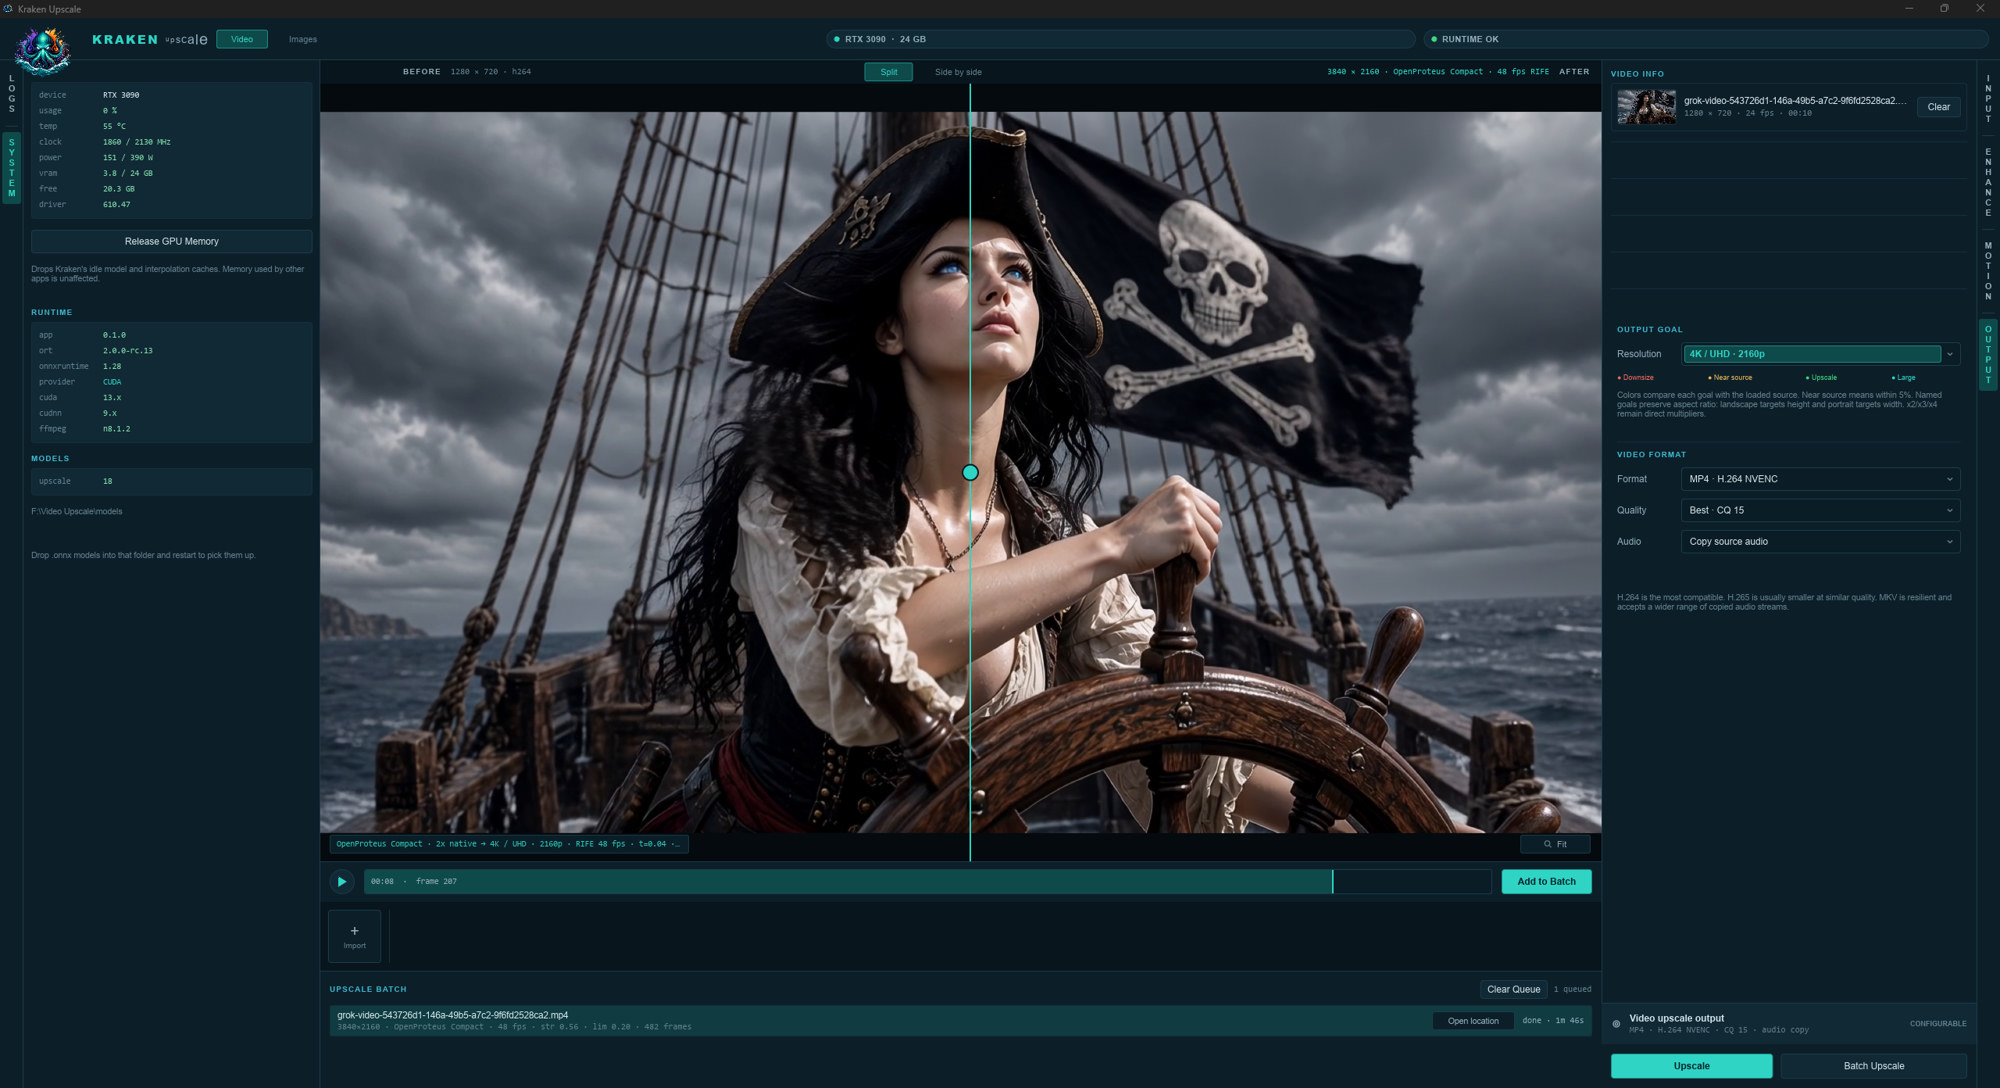
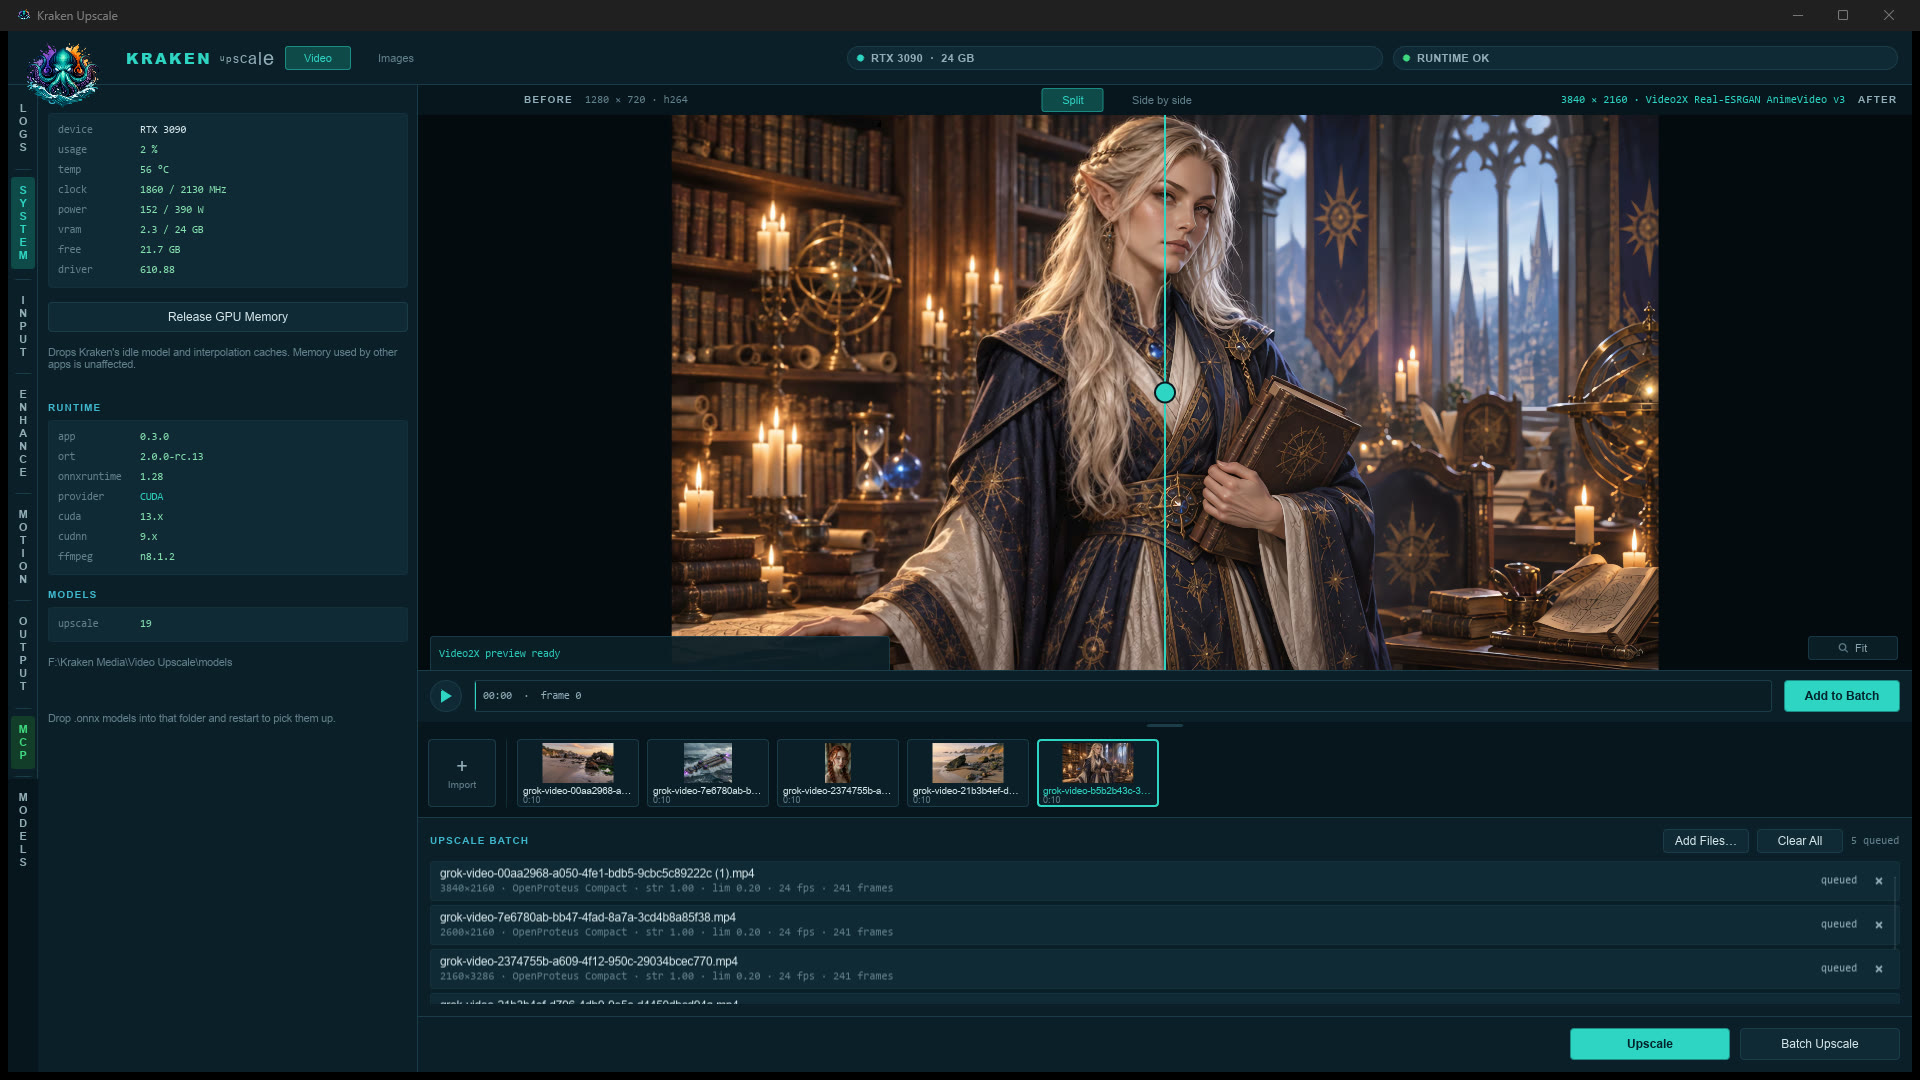
Refresh README and screenshots for 0.3.0
New screenshots of the 0.3.0 UI (main view with clip strip and batch,
Models tab, Video2X pipeline, Output, System), a quick start, a pipeline
guide with measured speeds, and updated RTX VSR / Video2X sections.

diff --git a/README.md b/README.md
@@ -1,47 +1,86 @@
 # Kraken Upscale
 
 Native Windows AI upscaler for video and still images. Rust + Slint UI, ONNX
-Runtime on NVIDIA CUDA, optional RTX Video Super Resolution, RIFE frame
-interpolation, and optional FLUX generative refine.
+Runtime on NVIDIA CUDA, NVIDIA RTX Video Super Resolution, Video2X
+(Real-ESRGAN / Real-CUGAN / Anime4K), RIFE frame interpolation, and optional
+FLUX generative refine — with a built-in model downloader so you never have to
+hunt for weights or folders.
 
-[Watch the demo on YouTube](https://youtu.be/nv3yAlPCmAo)
+[Watch the demo on YouTube](https://youtu.be/nv3yAlPCmAo) ·
+[Download the latest release](https://github.com/krakenunbound/kraken-upscale/releases/latest)
 
-![Split preview with motion controls](assets/screenshots/split-motion.jpg)
+![Split before/after preview, clip strip and batch queue](assets/screenshots/main.jpg)
 
-![Output settings](assets/screenshots/split-output.jpg)
-
-![System and runtime](assets/screenshots/system.jpg)
+| | |
+|---|---|
+| ![Models tab: one-click downloads](assets/screenshots/models.jpg) | ![Video2X pipeline](assets/screenshots/video2x.jpg) |
+| **Models tab** — install status and one-click download for every supported model and runtime | **Video2X pipeline** — Real-ESRGAN, Real-CUGAN and Anime4K presets beside ONNX models and RTX VSR |
+| ![Output settings](assets/screenshots/output.jpg) | ![System and runtime](assets/screenshots/system.jpg) |
+| **Output** — named goals or ×2/×3/×4, NVENC H.264/H.265, AAC audio for editors | **System** — live GPU stats, runtime versions, Release GPU Memory |
 
 ## What it does
 
-- Video and still-image modes in one app
-- **Models tab**: one-click download of every supported model and runtime into
-  the right folder, with instructions for the few that need a vendor download
-- Video pipelines: ONNX **Models**, NVIDIA **RTX VSR**, or **Video2X**
-  (Real-ESRGAN / Real-CUGAN / Anime4K)
-- Anime source profiles (remaster, DVD / TV broadcast, modern digital)
-- Batch import by drag-and-drop or **Add Files…**, with a clip strip and
-  per-item remove
-- Named output goals (720p through 4K) or ×2 / ×3 / ×4
-- Fast single-frame video models plus true multi-frame models (NanoVSR)
-- RIFE interpolation to 48 / 60 / 120 fps
-- Temporal lock to reduce shimmer on single-frame models
-- NVENC H.264 / H.265 to MP4 or MKV, with optional audio copy
-- PNG / JPEG / WebP still export
-- Optional NVIDIA RTX VSR for fast faithful image and video upscales
-- Optional Generative Refine (FLUX img2img) after a faithful pass
+- **Three video pipelines**
+  - **Models** — ONNX on CUDA with feathered tiling: Real-CUGAN, Real-ESRGAN,
+    AniSD, OpenProteus, ModernSpanimation, and true multi-frame NanoVSR
+  - **RTX VSR** — NVIDIA's persistent video session with temporal history,
+    rendered at the exact output size
+  - **Video2X** — Real-ESRGAN, Real-CUGAN (SE/Pro, every denoise level) and
+    Anime4K through the Video2X runtime
+- **Models tab** — every supported model and runtime with install status,
+  size, licence and destination; **Download** puts it in the right folder
+- **Source profiles**, including **anime** presets (remaster / Blu-ray,
+  DVD / TV broadcast with inverse telecine, modern digital) that pick the best
+  installed anime model for you
+- **Batch workflow** — drop many files at once or use **Add Files…**; files
+  are sorted naturally and queued with the current settings. A clip strip
+  shows thumbnails and lengths; remove single items or **Clear All**
+- Split or side-by-side before/after preview with zoom and pan
+- Named output goals (720p through 4K) or ×2 / ×3 / ×4, plus an optional
+  16:9 crop applied before the upscale
+- RIFE interpolation to 48 / 60 / 120 fps; temporal lock against shimmer
+- NVENC H.264 / H.265 to MP4 or MKV; copy audio, drop it, or re-encode to
+  **AAC 320k** for editors such as Premiere
+- Still images: PNG / JPEG / WebP, RTX VSR, and FLUX Generative Refine
+- MCP control server so AI agents can drive the visible app (`MCP/`)
 
-Output is written **next to the source file**.
+Output is written **next to the source file** with a unique name.
+
+## Quick start
+
+1. Download `Kraken.Upscale.exe` from the
+   [latest release](https://github.com/krakenunbound/kraken-upscale/releases/latest)
+   (or build it, below) and put it in its own folder.
+2. Put FFmpeg (`ffmpeg.exe`, `ffprobe.exe` and DLLs) in an `ffmpeg\` folder
+   beside it, and the CUDA / cuDNN runtime DLLs beside it or in `cuda\`.
+3. Start Kraken, open the **MODELS** tab on the left rail and click
+   **Download** on the models you want, then **Restart Kraken**.
+4. Drop a video, pick a Content profile and output goal, then **Upscale** or
+   **Add to Batch**.
+
+### Which pipeline?
+
+| Source | Suggested setup | Notes |
+|---|---|---|
+| HD anime / Blu-ray remaster | Content **Anime — remaster**, Models · Real-CUGAN Pro Conservative 3x | Faithful line art, seam-free tiling |
+| DVD / broadcast anime | Content **Anime — DVD / TV** | Inverse telecine + deblock, AniSD Cel SPAN |
+| AI or live-action video | Models · OpenProteus or Real-ESRGAN General, Stability on | |
+| Need it fast | RTX VSR, or Video2X · Anime4K | Anime4K is a sharpening shader, not a GAN |
+
+Measured on an RTX 3090, 1440×1080 → 4320×3240 (3×): Anime4K ≈ 52 fps,
+RTX VSR Ultra ≈ 9 fps, Video2X AnimeVideo v3 ≈ 6 fps, Real-CUGAN Pro ≈ 3 fps.
+Smaller goals run proportionally faster.
 
 ## Requirements
 
 - Windows 10/11, 64-bit
 - NVIDIA GPU with a current Game Ready or Studio driver
-- [Rust](https://rustup.rs/) 1.92+ (MSVC toolchain) to build from source
 - [FFmpeg](https://ffmpeg.org/download.html) (`ffmpeg` and `ffprobe`) on `PATH`,
   or in an `ffmpeg\` folder beside the executable
 - CUDA-capable [ONNX Runtime](https://onnxruntime.ai/) (the `ort` crate pulls
   it; extra CUDA provider DLLs can sit next to the exe)
+- Optional: RTX GPU + driver 570.65+ for RTX VSR; Vulkan for Video2X
+- [Rust](https://rustup.rs/) 1.92+ (MSVC toolchain) only to build from source
 
 ## Build
 
@@ -51,7 +90,7 @@ cargo build --release
 
 Run `target\release\kraken-upscale.exe`. A portable copy can be named
 `Kraken Upscale.exe` beside `ffmpeg\`, `models\`, and (if you use them)
-`cuda\`, `rtx-vsr\`, and `native-diffusion\`.
+`cuda\`, `rtx-vsr\`, `video2x\`, and `native-diffusion\`.
 
 ## Models
 
@@ -82,6 +121,7 @@ Download the ONNX files and put them in `models/video-frame/`:
 |---|---|---|---|
 | Real-ESRGAN General x4v3 | 4× | General / AI video | [Hugging Face](https://huggingface.co/CoderViking/realesr-general-x4v3-onnx) · [Real-ESRGAN](https://github.com/xinntao/Real-ESRGAN/releases) |
 | Real-ESRGAN AnimeVideo v3 | 4× | Animation | [vs-mlrt release](https://github.com/AmusementClub/vs-mlrt/releases/tag/model-20211209) · [docs](https://github.com/xinntao/Real-ESRGAN/blob/master/docs/anime_video_model.md) |
+| Real-CUGAN Pro Conservative 3x | 3× | HD anime → 4K-class, no final resize | [vs-mlrt](https://github.com/AmusementClub/vs-mlrt/releases/tag/model-20211209) (`cugan-pro_v3.7z` → `pro-conservative-up3x.onnx`) |
 | Real-CUGAN Pro Conservative | 2× | 2D, light cleanup | [vs-mlrt](https://github.com/AmusementClub/vs-mlrt/releases/tag/model-20211209) · [Real-CUGAN](https://github.com/bilibili/ailab/tree/main/Real-CUGAN) |
 | Real-CUGAN Pro Denoise 3 | 2× | 2D, stronger denoise | same vs-mlrt release |
 | AniSD General SPAN | 2× | SD animation | [Sirosky AniSD](https://github.com/Sirosky/Upscale-Hub/releases/tag/AniSD) (`2x_AniSD_G6i1_SPAN_215K_fp32.onnx`) |
@@ -145,14 +185,25 @@ is a **non-commercial** license.
 
 ### RTX VSR (optional)
 
-Images mode can call NVIDIA Video Super Resolution if you place the Video
-Effects runtime in `rtx-vsr/` beside the exe. Layout and driver notes:
-[`RTX-VSR.md`](RTX-VSR.md).
+Video and Images modes can use NVIDIA Video Super Resolution when the Video
+Effects runtime is in `rtx-vsr/` beside the exe. NVIDIA distributes it under
+its own terms, so the Models tab shows the steps rather than downloading it.
+Layout and driver notes: [`RTX-VSR.md`](RTX-VSR.md).
+
+### Video2X (optional)
+
+The Video2X pipeline runs [Video2X 6.4.0](https://github.com/k4yt3x/video2x/releases/tag/6.4.0)
+from `video2x/` beside the exe; the Models tab downloads and installs it.
+Kraken prepares the source, runs Video2X at its nearest native scale, then
+resizes and encodes to the exact goal. Video2X's Real-CUGAN tiles are
+unblended and can show faint seams on flat colour; the Models pipeline's
+Real-CUGAN Pro is seam-free. Video2X is AGPL-3.0 and runs as a separate
+process, never linked.
 
 ## License
 
 Kraken Upscale source is MIT — see [`LICENSE`](LICENSE).
 
 FFmpeg is LGPL (`vendor/ffmpeg/LICENSE.txt`). Models, CUDA, cuDNN, ONNX
-Runtime, NVIDIA Video Effects, and FLUX weights are covered by their own
-licenses.
+Runtime, NVIDIA Video Effects, Video2X (AGPL-3.0), and FLUX weights are
+covered by their own licenses.
